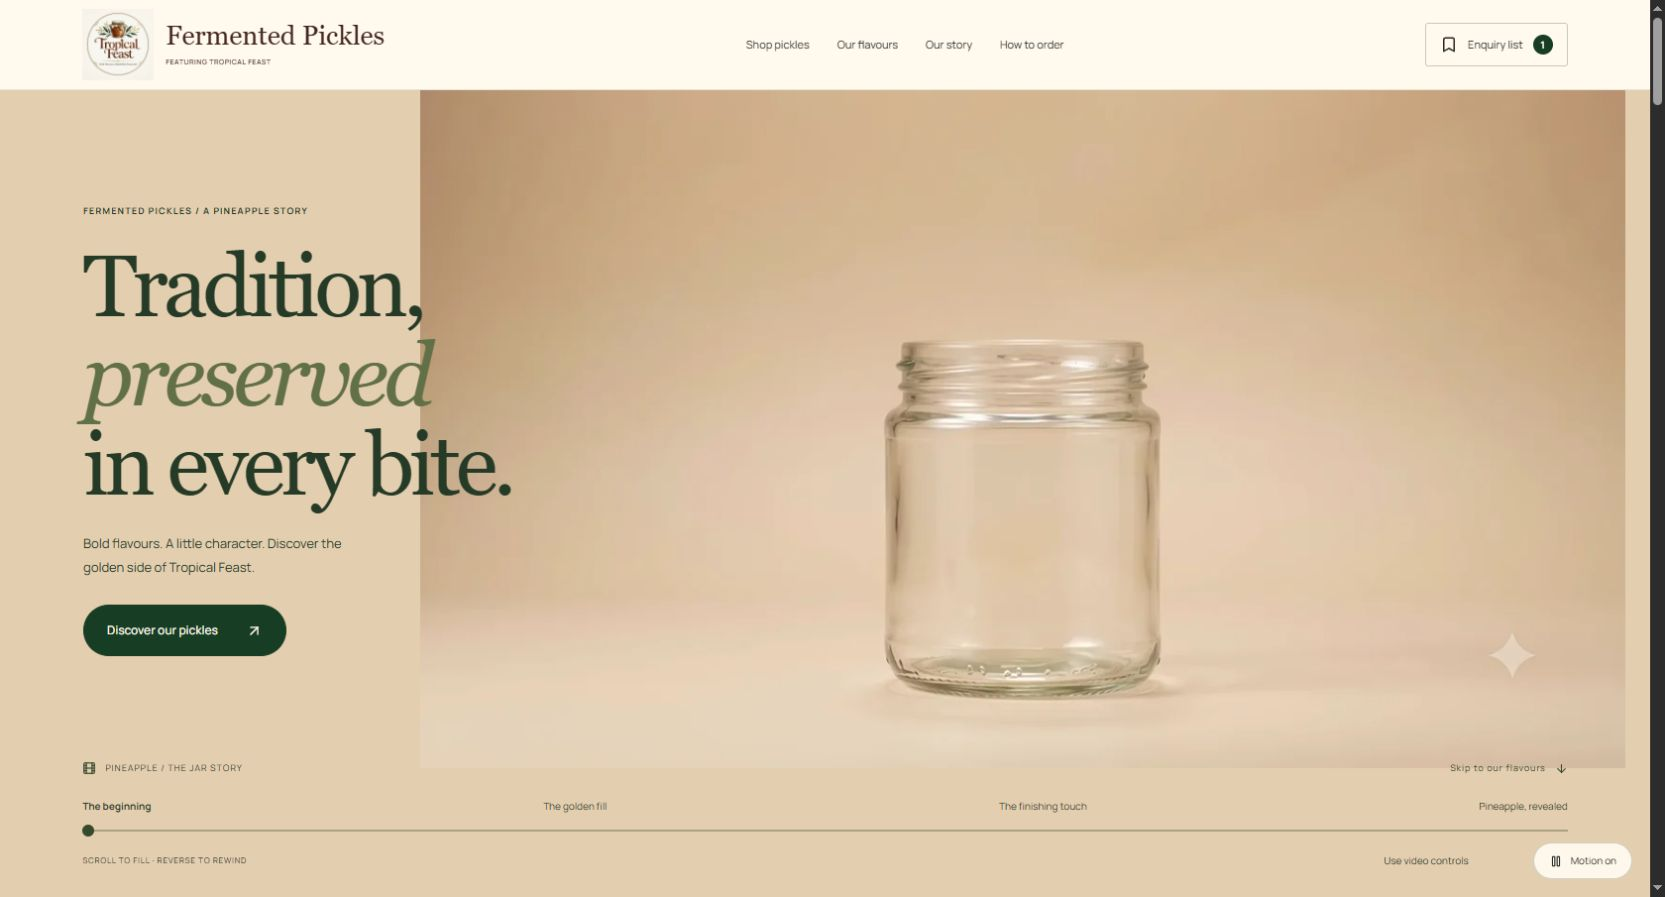
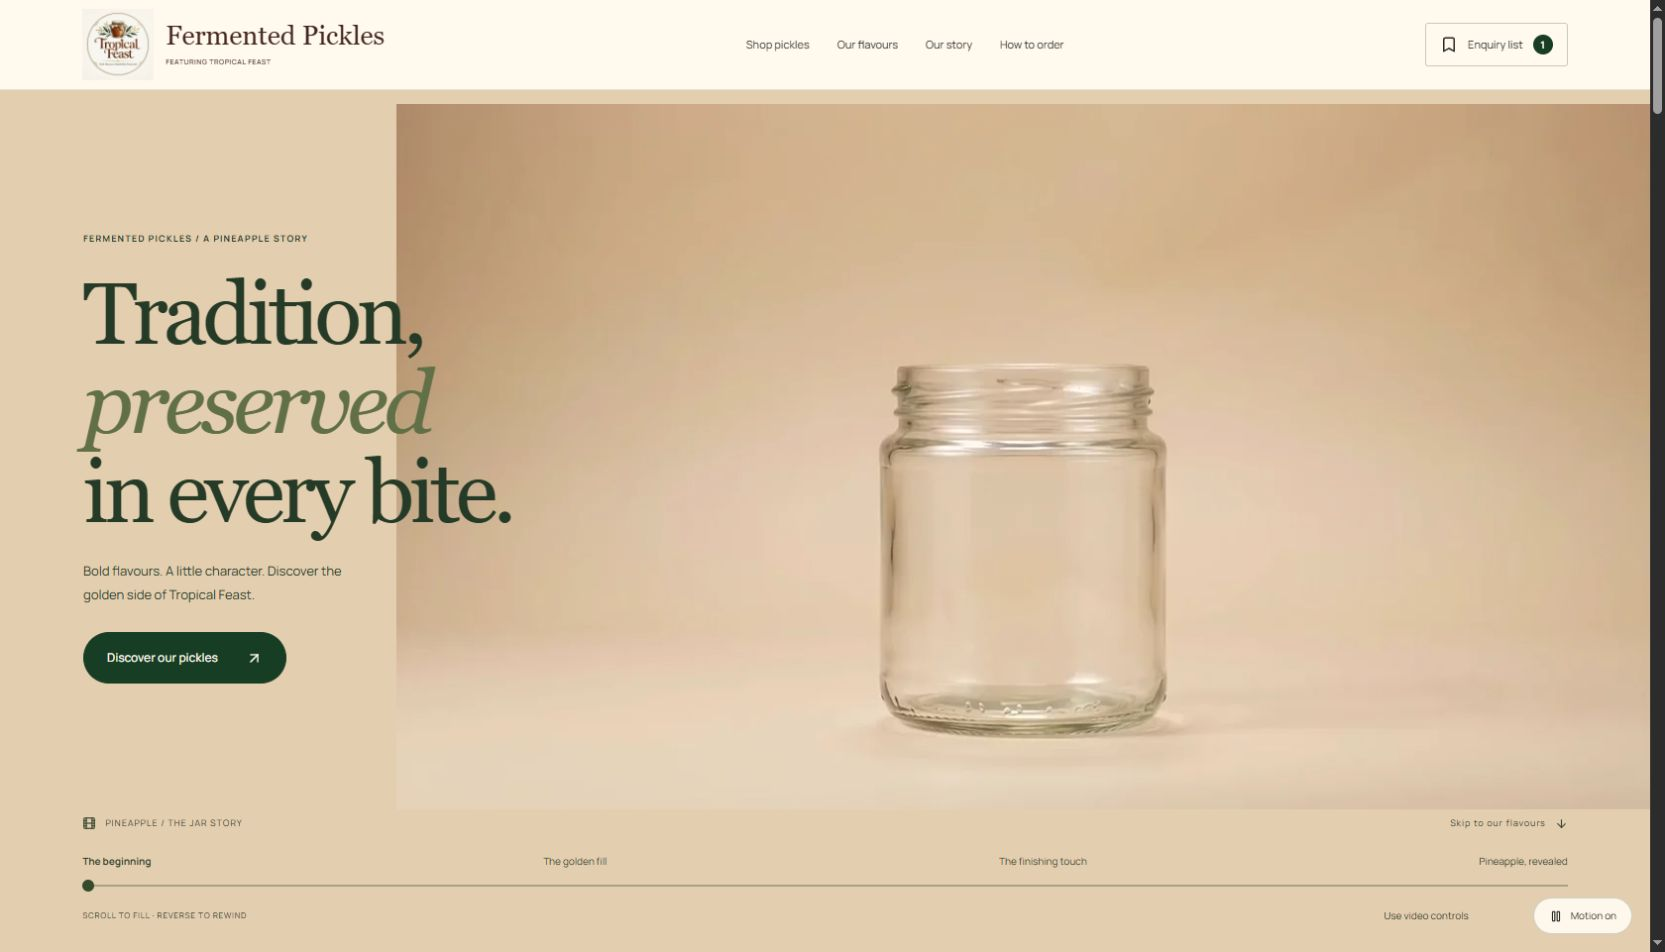
Refresh hero proof screenshots after corner-mark cleanup

diff --git a/CINEMATIC_HERO.md b/CINEMATIC_HERO.md
@@ -88,4 +88,4 @@ The original footage’s tight final framing remains a source limitation. No rep
 
 ## Owner-requested star cleanup
 
-On 24 October 2026 the owner requested hiding the white star at the lower right of the footage. The web delivery copy now blends out only that 70×72 pixel background region (x=1126, y=565 in the 1280×720 encode). Matching first/final posters were re-extracted from the cleaned MP4. There is no added badge, no crop or cover over the jar/label, and no change to the scroll mapping, frame count, duration or keyframe spacing. The original uploaded MP4 is untouched. Earlier screenshots and range-response byte counts above document the preceding deployment.
+On 24 October 2026 the owner requested hiding the white star at the lower right of the footage. The web delivery copy now blends out only that 70×72 pixel background region (x=1126, y=565 in the 1280×720 encode). Matching first/final posters were re-extracted from the cleaned MP4. There is no added badge, no crop or cover over the jar/label, and no change to the scroll mapping, frame count, duration or keyframe spacing. The original uploaded MP4 is untouched. Earlier range-response byte counts above document the preceding deployment. The screenshots were refreshed after cleanup. Live verification returned HTTP 200 with 2,046,422 bytes matching the cleaned local MP4, and Chrome reached 9.958333 seconds with the corner mark absent. The production build and complete video decode passed.
